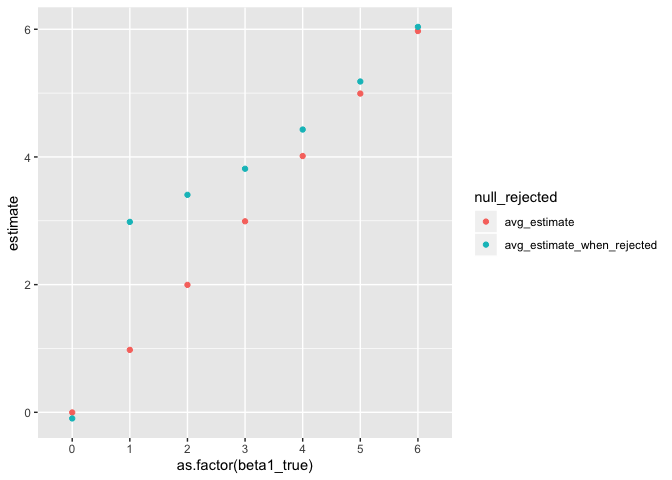
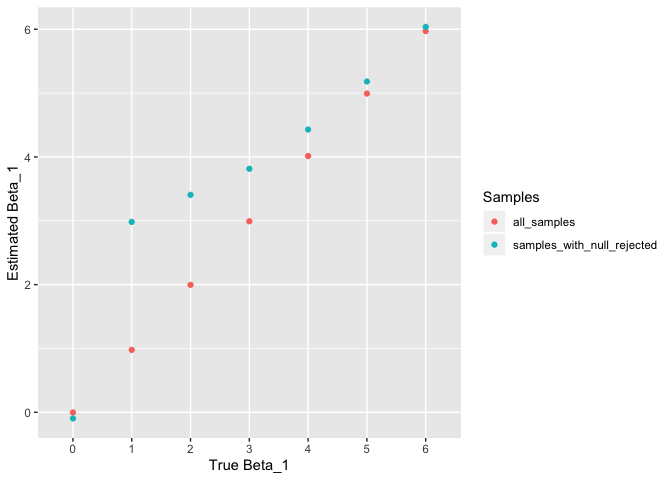
knitted the finished assignment

diff --git a/p8105_hw5_bsr2136.md b/p8105_hw5_bsr2136.md
@@ -235,7 +235,7 @@ sim_regression = function(n = 30, beta0 = 2, beta1 = 0, sigma_2 = 50) {
 }
 ```
 
-### running sim\_regression 10,000 times for beta\_1 = {0,1,2,3,4,5,6}, and then combining the tables
+### Running sim\_regression 10,000 times for beta\_1 = {0,1,2,3,4,5,6}, and then combining the tables
 
 ``` r
 sim_results_0 <- rerun(10000, sim_regression(beta1 = 0)) %>% 
@@ -281,12 +281,13 @@ sim_results_total %>%
   ggplot(aes(x=as.factor(beta1_true),y=proportion_rejected)) +
   geom_col() +
   xlab("True Beta_1") +
-  ylab("Proportion of Rejected Nulls")
+  ylab("Proportion of Rejected Nulls (Power)")
 ```
 
 ![](p8105_hw5_bsr2136_files/figure-gfm/p3.3-1.png)<!-- -->
 
-As the effect size increases, the power of the test also increases.
+As the effect size increases, the power also increases, and approaches
+1.
 
 ### Plotting estimates of beta1\_hat
 
@@ -294,13 +295,29 @@ As the effect size increases, the power of the test also increases.
 sim_results_total %>%
   mutate(beta1_hat_rejected = ifelse(p_val <= .05,beta1_hat,NA)) %>%
   group_by(beta1_true) %>%
-  summarise(avg_estimate = mean(beta1_hat),
-            avg_estimate_when_rejected = mean(beta1_hat_rejected,na.rm=T)) %>%
-  pivot_longer(avg_estimate:avg_estimate_when_rejected,
+  summarise(all_samples = mean(beta1_hat),
+            samples_with_null_rejected = mean(beta1_hat_rejected,na.rm=T)) %>%
+  pivot_longer(all_samples:samples_with_null_rejected,
                names_to = "null_rejected",
                values_to = "estimate") %>%
   ggplot(aes(x=as.factor(beta1_true),y=estimate,color = null_rejected)) + 
-  geom_point()
+  geom_point() +
+  xlab("True Beta_1") +
+  ylab("Estimated Beta_1") +
+  labs(color = "Samples")
 ```
 
 ![](p8105_hw5_bsr2136_files/figure-gfm/p3.4-1.png)<!-- -->
+
+The average estimate from the samples where the null was rejected tends
+to be farther from than true beta1 value than the average estimate from
+all samples. This is likely because when we only consider samples where
+the null was rejected, we are somewhat “arbitrarily” excluding samples
+where the estimate was close to 0. For example, when the true value of
+beta1 is 2, a sample where the estimate is 0 will be excluded, but a
+sample where the estimate is 4 will not be excluded, but both are
+equally likely and equally “incorrect”. Therefore we are biasing our
+estimate away from 0. The logic is slighlty different when beta1 equals
+0, but the principle is the same, as we are arbitrarily considering only
+samples with extreme values, so those few extreme values we are
+considering are less likely to average out to the true value.
